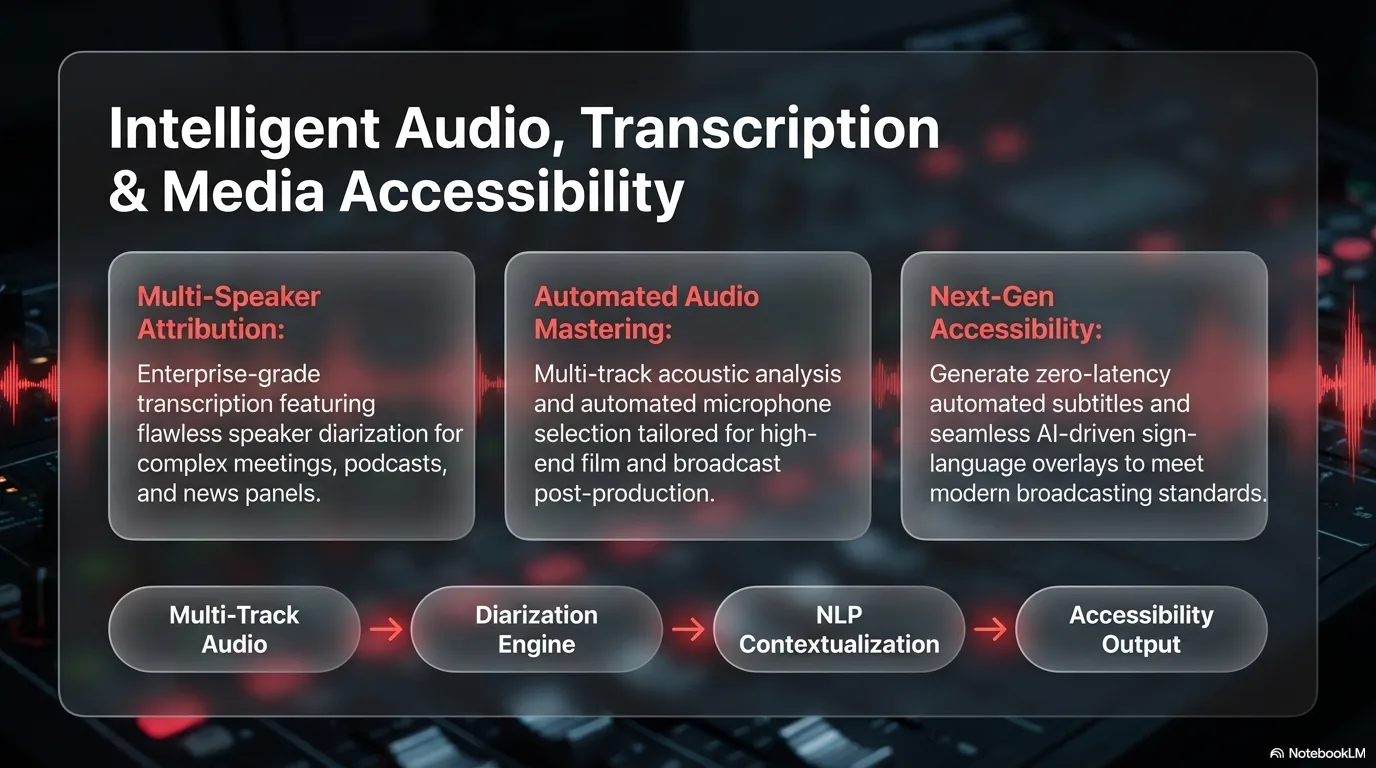
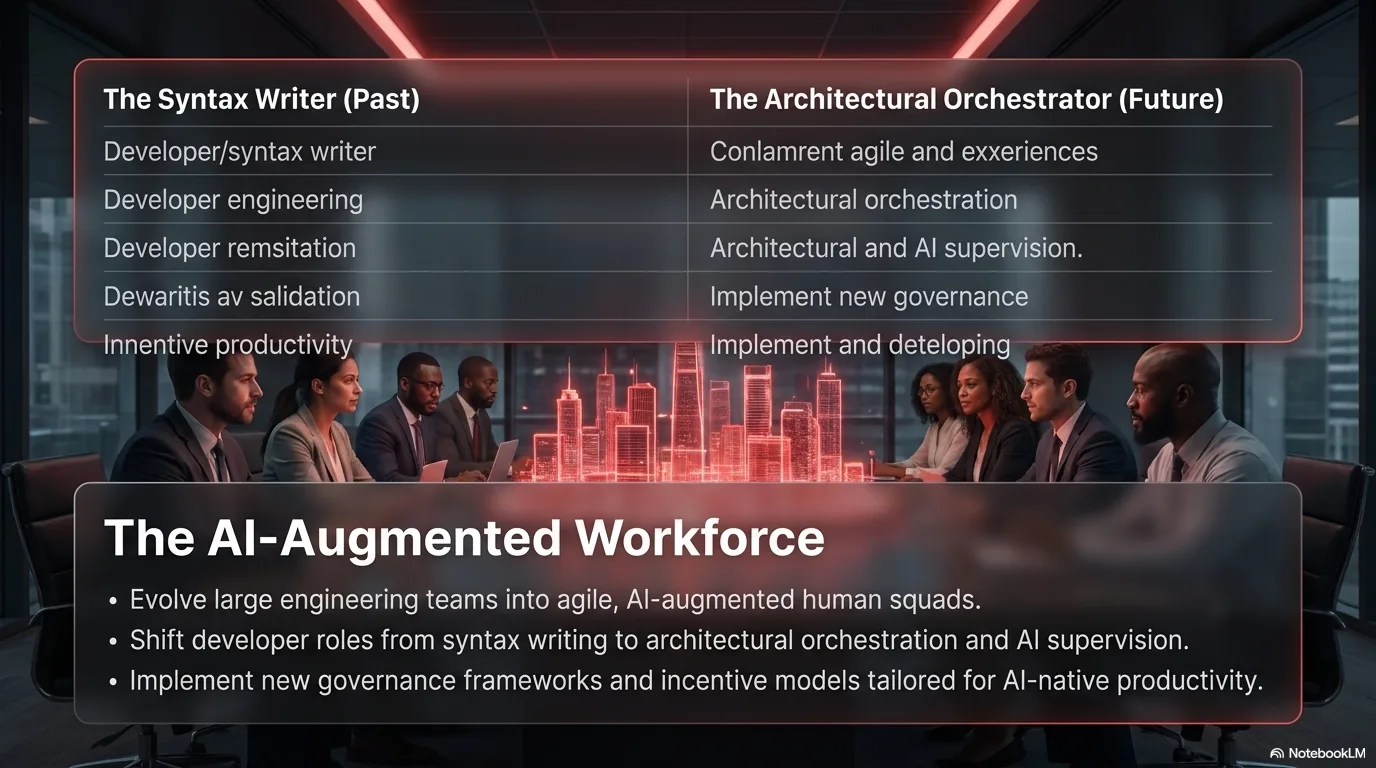
fix(use-cases): swap accessibility image to red media-accessibility slide
- ai-accessibility-automation → uc-accessibility-media.webp
  (slide-varB-09: 'Intelligent Audio, Transcription & Media Accessibility',
  explicitly covers subtitles, audio descriptions and sign-language overlays)
- ai-transcription-speaker-attribution → uc-transcription-speaker-attribution.webp
  (slide-varC-14: team at dark conference table — meeting transcription context)
- removes purple/green abstract brain image that clashed with site palette

diff --git a/content/use-cases/ai-accessibility-automation.md b/content/use-cases/ai-accessibility-automation.md
@@ -2,8 +2,8 @@
 title: "AI-Powered Accessibility for Media"
 description: "Automated subtitles, audio descriptions, and sign language overlay for broadcast and streaming - making content accessible at scale without manual effort."
 date: 2026-03-24
-page_image: "/images/uc-accessibility-ai-brain.webp"
-page_image_alt: "AI accessibility automation — intelligent audio processing for media subtitles and descriptions"
+page_image: "/images/uc-accessibility-media.webp"
+page_image_alt: "AI-powered accessibility for media — automated subtitles, audio descriptions and sign-language overlays for broadcast"
 ---
 
 ## The Problem

diff --git a/content/use-cases/ai-transcription-speaker-attribution.md b/content/use-cases/ai-transcription-speaker-attribution.md
@@ -3,7 +3,7 @@ title: "AI Transcription with Accurate Speaker Attribution"
 description: "Multi-speaker transcription for news organizations, podcasts, and enterprise meetings - with accurate attribution even in complex, overlapping conversations."
 date: 2026-03-24
 page_image: "/images/uc-transcription-speaker-attribution.webp"
-page_image_alt: "AI transcription with accurate speaker attribution — diarization for meetings, podcasts, and broadcast"
+page_image_alt: "AI transcription with accurate speaker attribution — multi-speaker diarization for meetings, podcasts and broadcast"
 ---
 
 ## The Problem
